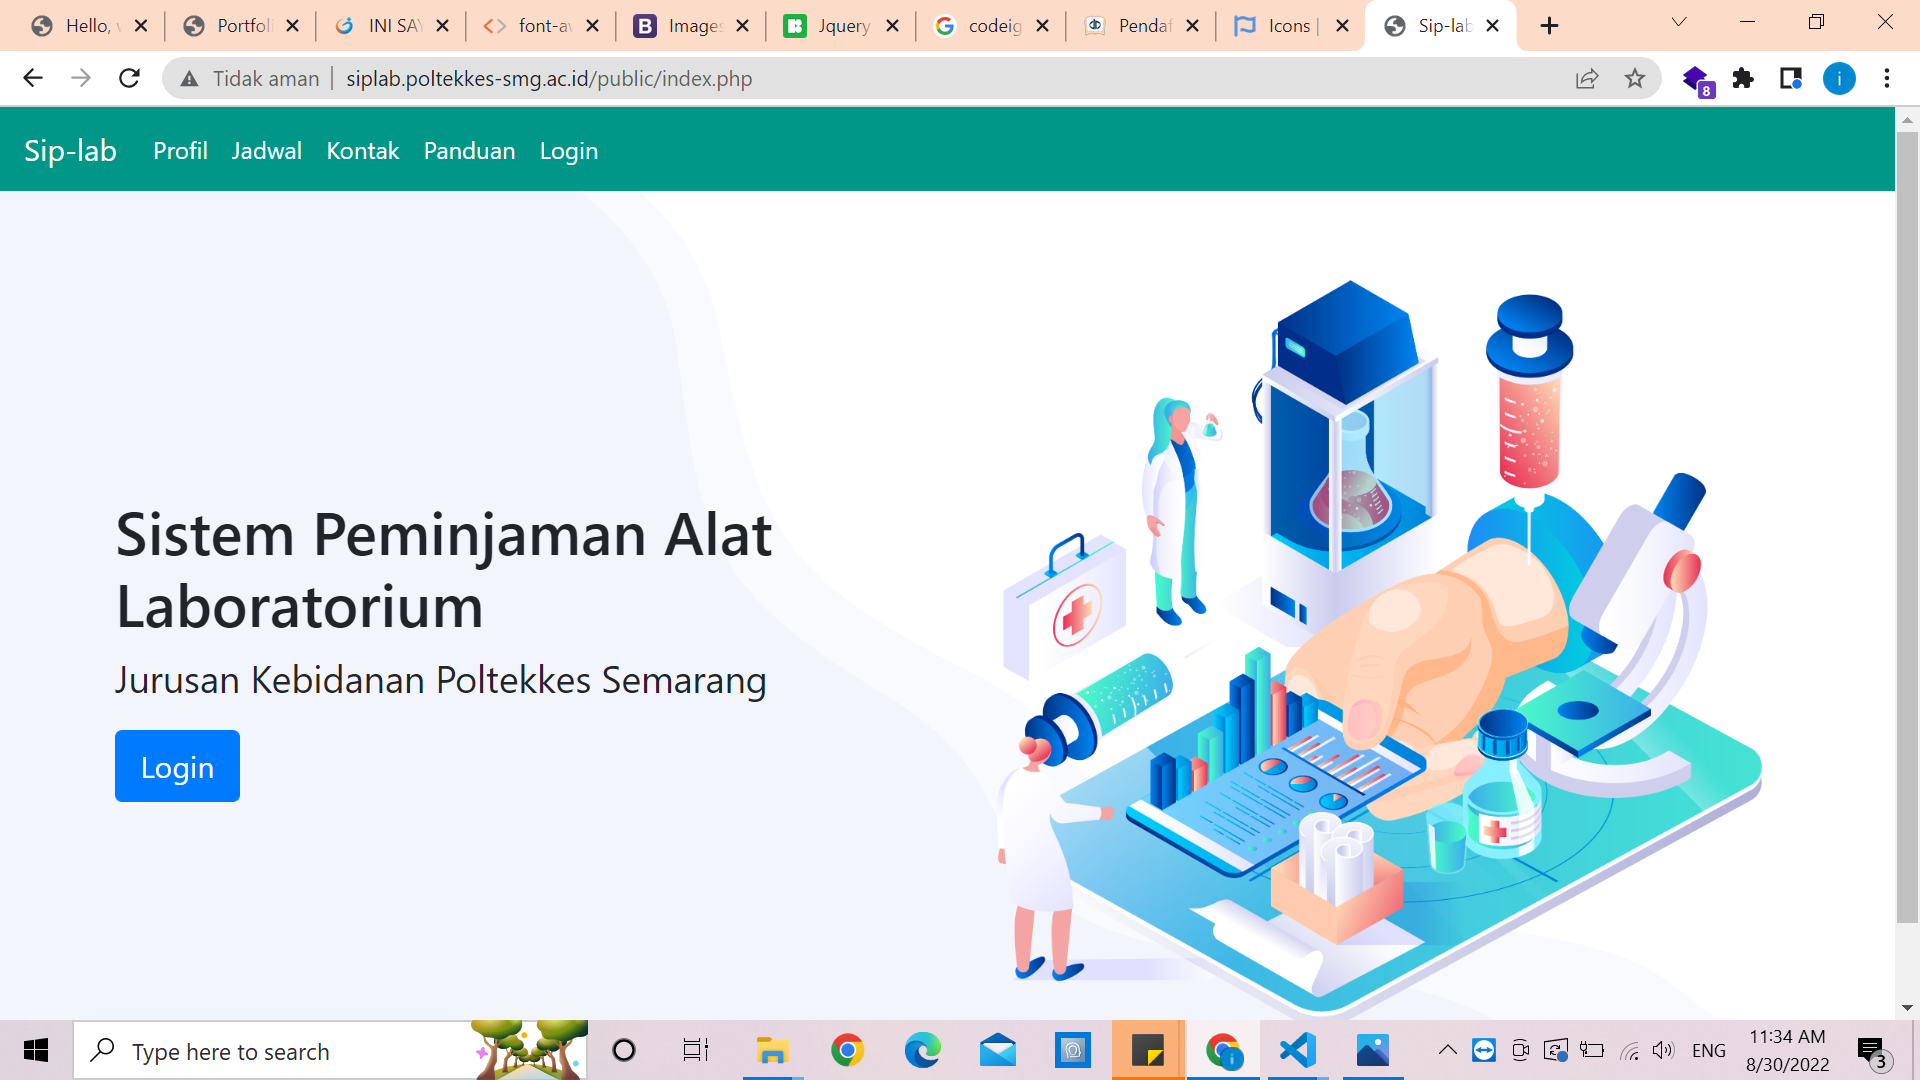
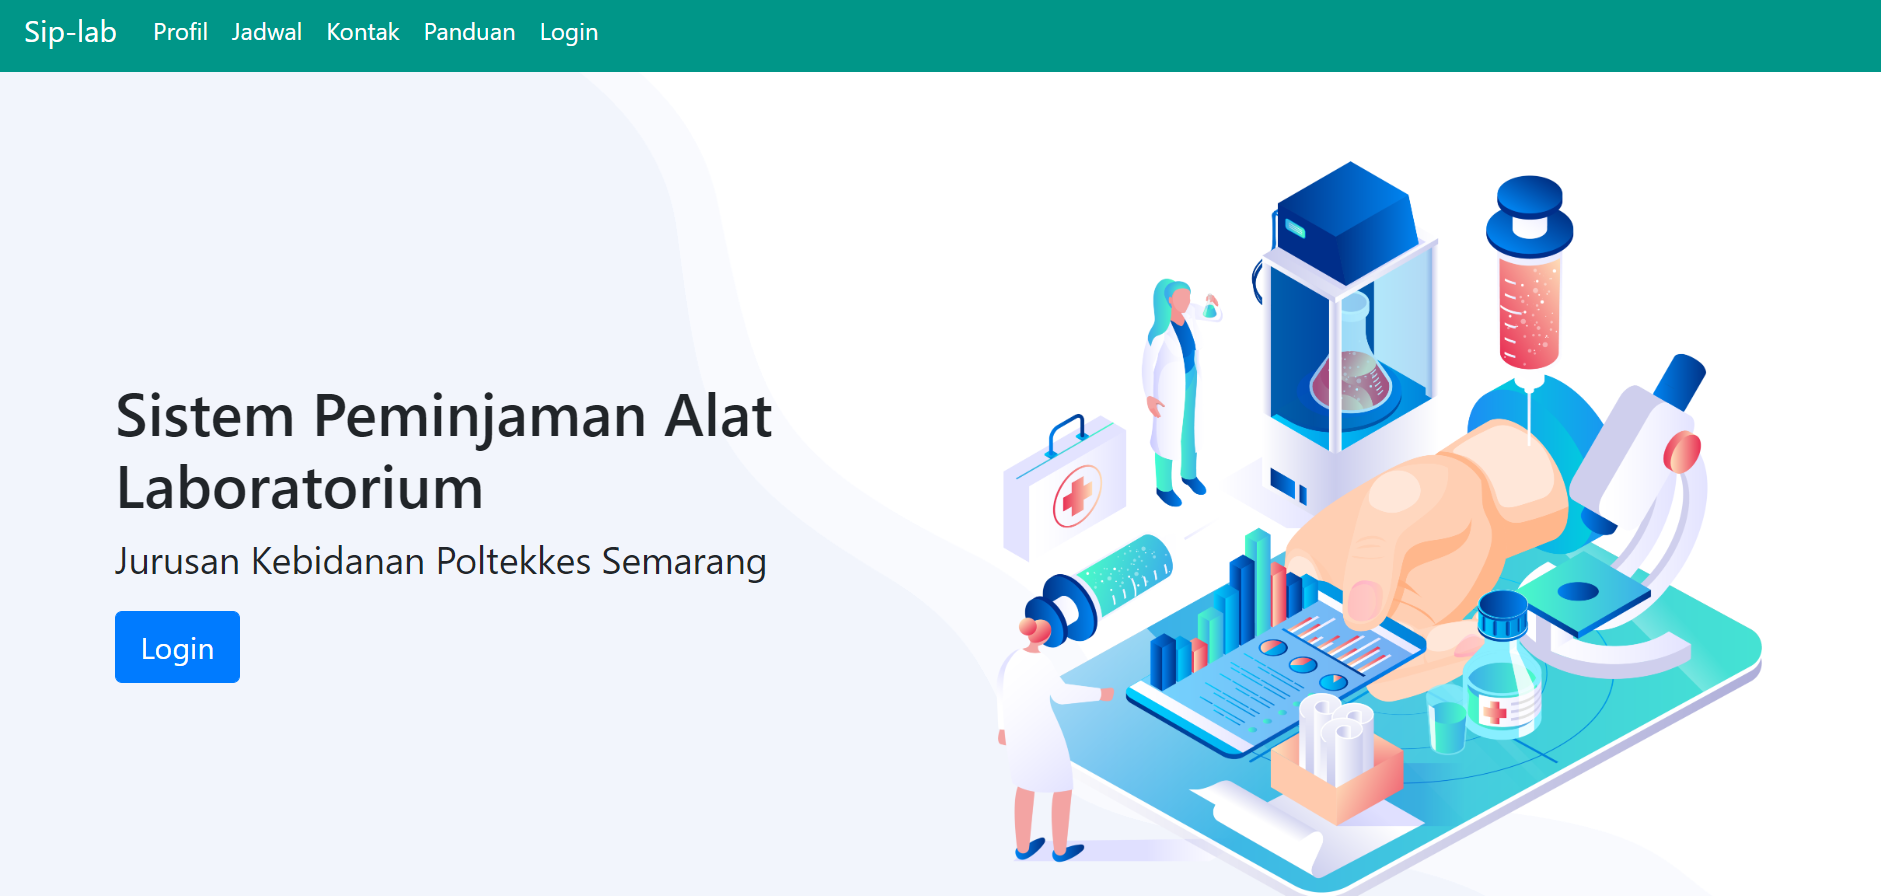
add3

diff --git a/index.html b/index.html
@@ -134,7 +134,7 @@
                                         </div>
                                         <div class="col-lg-4 text-center">
                                             <img src="./asset/img/portofolio/siplab.png" alt="..." class="img-thumbnail">
-                                            Sistem Peminjalan Alat Laboratorium Poltekkes Semarang
+                                            Sistem Peminjaman Alat Laboratorium Poltekkes Semarang
                                         </div>
                                     </div>
                                     <div class="row mt-5">
